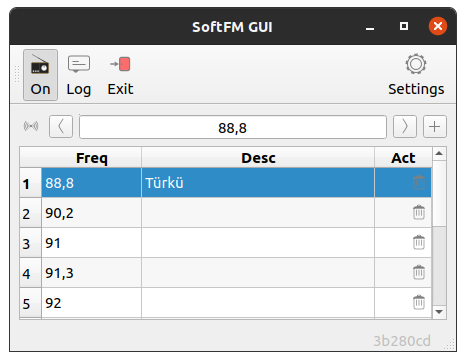
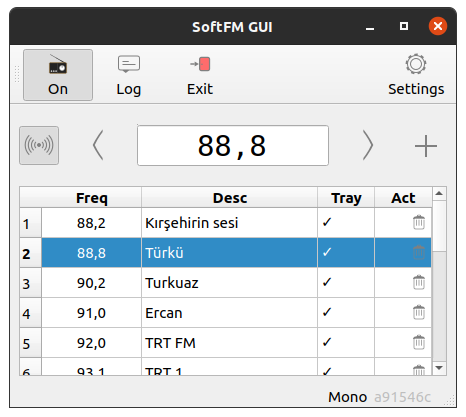
Update screehshots

diff --git a/Readme.md b/Readme.md
@@ -18,4 +18,10 @@ Advanced:
 
 ![screenshot-advanced](docs/screenshot-advanced.png)
 
+Tray:
 
+![screenshot-tray](docs/screenshot-tray.png)
+
+Settings:
+
+![screenshot-settings](docs/screenshot-settings.png)
